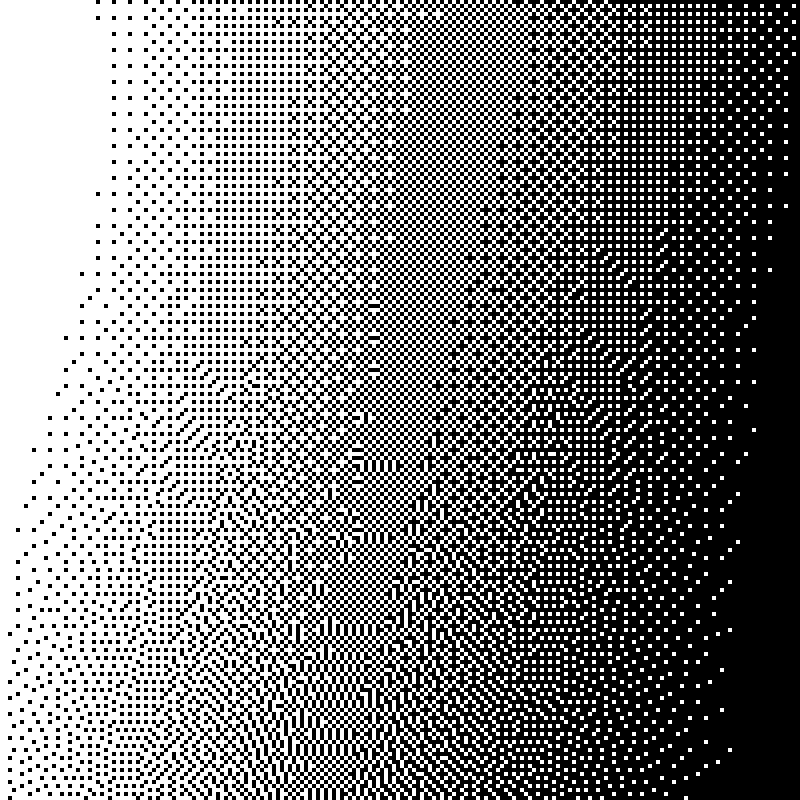
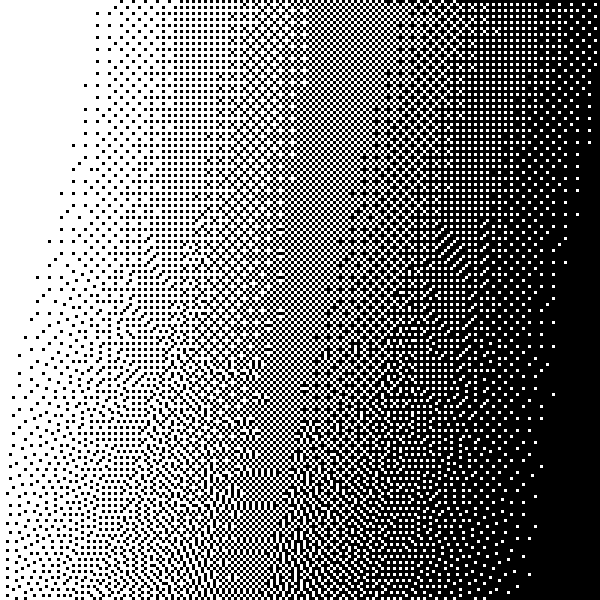
dithering: readme

diff --git a/dithering.py b/dithering.py
@@ -132,7 +132,7 @@ def main():
     imageResult = make_dithering(image, imageGradient)
 
     w, h = imageResult.size
-    imageResult = imageResult.resize((w*4,h*4), Image.NEAREST)
+    imageResult = imageResult.resize((w*3,h*3), Image.NEAREST)
     
     filename = "output.png"
     imageResult.save(filename)

diff --git a/README.md b/README.md
@@ -1,2 +1,4 @@
 # dithering-gradient-py
-Gradual transition between two ditherings
+Gradual transition between two dithering methods: (ordered dithering)[https://en.wikipedia.org/wiki/Ordered_dithering] and (error diffusion)[https://en.wikipedia.org/wiki/Error_diffusion].
+
+![output](https://raw.githubusercontent.com/bntre/dithering-gradient-py/main/output.png)
